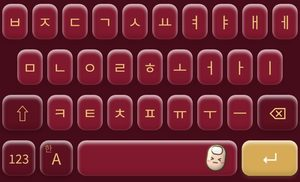
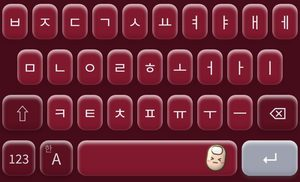
2026.11.12-11 버건디 골드 → 버건디 실버
Claude-Session: https://claude.ai/code/session_01GvSCgEXELCVfxACkb9NKF6

diff --git a/Shared/KBTheme.swift b/Shared/KBTheme.swift
@@ -164,21 +164,21 @@ struct KBTheme {
                 pressKey: c(106, 23, 39), pressSpecial: c(61, 61, 66),
                 text: .white, specialText: .white,
                 accent: c(150, 34, 56), depth: 4, radius: 10, short: "버건디 키", group: "special"),
-        KBTheme(id: "bur_silver", name: "버건디 실버",
+        KBTheme(id: "bur_silver", name: "실버 키",
                 bg: c(110, 22, 40), key: c(206, 206, 210), special: c(150, 150, 156),
                 pressKey: c(185, 185, 189), pressSpecial: c(132, 132, 137),
                 text: c(110, 22, 40), specialText: .white,
-                accent: c(70, 70, 76), depth: 4, radius: 10, short: "버건디 실버", group: "special"),
+                accent: c(70, 70, 76), depth: 4, radius: 10, short: "실버 키", group: "special"),
         KBTheme(id: "bur_charcoal", name: "버건디 차콜",
                 bg: c(72, 72, 78), key: c(120, 28, 48), special: c(40, 40, 44),
                 pressKey: c(108, 25, 43), pressSpecial: c(35, 35, 38),
                 text: c(236, 226, 228), specialText: c(210, 210, 216),
                 accent: c(150, 150, 158), depth: 4, radius: 10, short: "버건디 차콜", group: "special"),
-        KBTheme(id: "bur_gold", name: "버건디 골드",
+        KBTheme(id: "bur_gold", name: "버건디 실버",
                 bg: c(70, 12, 26), key: c(128, 24, 46), special: c(92, 16, 32),
                 pressKey: c(115, 21, 41), pressSpecial: c(80, 14, 28),
-                text: c(232, 192, 118), specialText: c(232, 192, 118),
-                accent: c(214, 170, 86), depth: 4, radius: 10, short: "버건디 골드", group: "special"),
+                text: c(232, 234, 240), specialText: c(214, 216, 224),
+                accent: c(158, 162, 176), depth: 4, radius: 10, short: "버건디 실버", group: "special"),
     ]
 
     static var colors: [KBTheme] { all.filter { $0.group == "color" } }

diff --git a/App/FingerErrorApp.swift b/App/FingerErrorApp.swift
@@ -96,7 +96,7 @@ struct ContentView: View {
                 }
             }
             .safeAreaInset(edge: .bottom) {
-                Text("버전 2026.11.12-10 (버건디 스페셜) · 100개마다 리포트 · 한/A 영어 · 테마별 팻핑이 · 기념일").font(.caption2).foregroundStyle(.secondary).padding(4)
+                Text("버전 2026.11.12-11 (버건디 스페셜) · 100개마다 리포트 · 한/A 영어 · 테마별 팻핑이 · 기념일").font(.caption2).foregroundStyle(.secondary).padding(4)
             }
             .navigationTitle("핑거에러")
             // 3D 젤리: 크림 배경 + 복숭아 포인트
